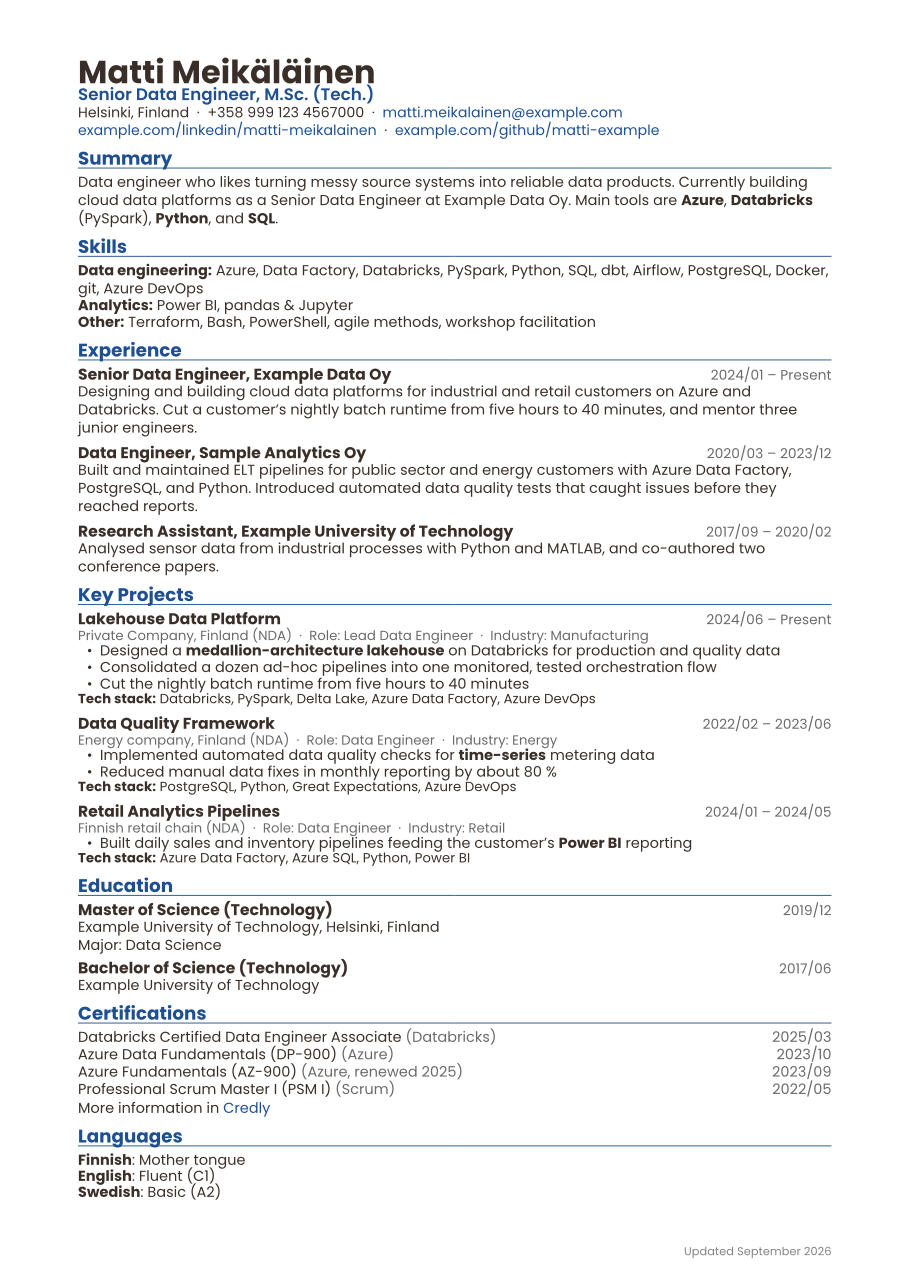
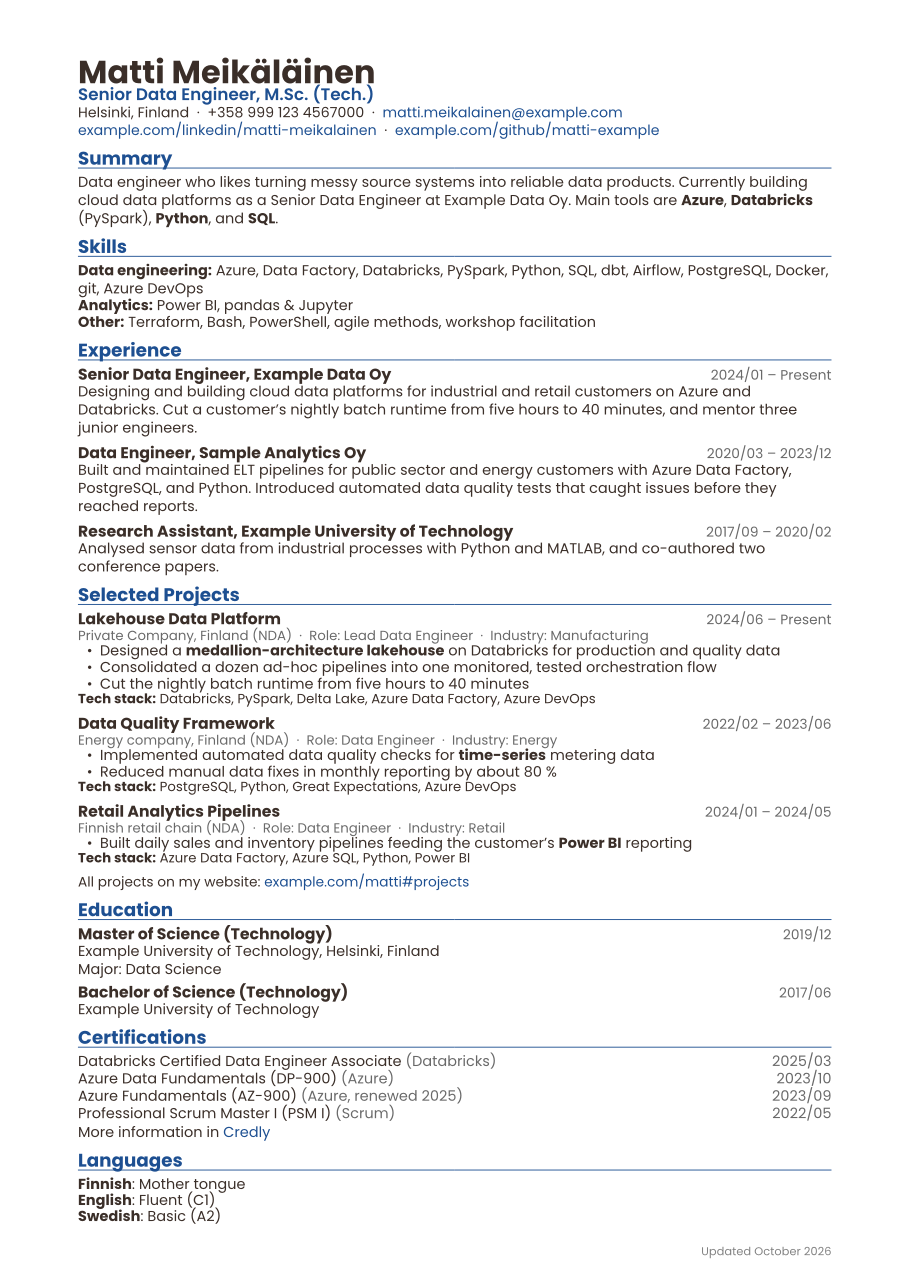
Add grouping entries, Selected Projects with link, PDF chart tuning and job-fit duplicate check

diff --git a/AGENTS.md b/AGENTS.md
@@ -55,7 +55,8 @@ python build.py list                             # profiles with descriptions
 - **Tags:** `tags: [...]` on items, used by profile filters. `id:` identifies items for `filters.<list>.ids`.
 - **Notes:** `notes: [...]` on an item or as a top-level key = facts the user has confirmed that are not CV text (too small, context, or negative, e.g. "no streaming experience"). Never rendered: `notes` is in `META_KEYS`, so the resolver drops it from every output. The job-fit skill reads them and writes the user's answers into them; when a fact is promoted into CV text, the note is removed in the same edit, so the same fact never lives in two places.
 - **Inline markdown** (`**bold**`, `*italic*`, `[text](url)`, `` `code` ``) works in text fields. For the PDF the build converts it to Typst markup and escapes special characters. Relative and anchor links (`#projects`, Liquid) become plain text in the PDF.
-- `experience`: `highlights` = bullets (website), `summary` = paragraph (PDF).
+- `experience`: `highlights` = bullets (website), `summary` = paragraph (PDF). `org` is optional. An item with a `positions` list is a grouping entry: the PDF renders each position as a sub-entry with its own title, org, period and `summary` (e.g. "Academia 2015–2020" with two roles below).
+- **Same background at two levels of detail:** the example data has `academia-summary` (grouping entry with `positions`, `channels: [pdf]`, tag `academia-summary`) and the detailed `university-ra` (tag `academia-detail`). Profiles pick one with `exclude_tags`: `full`, `one-page` and `projects` exclude `academia-detail`; `ats` excludes `academia-summary`.
 - `projects`: `title`, `client`, `role`, `industry`, `data`, `highlights` (strings, or `{text, sub: [...]}` for nested bullets), `stack`.
 - `skills.groups` = the skills list (`inline: true` → one comma-separated bullet). `skills.chart` = optional bubble chart, positioned by hand (`x`, `y` 0–100, `r` px of a 620 px chart, `cat` = category index).
 - Keys in `PLAIN_KEYS` (build.py) are never treated as markup; add a key there if it holds raw values such as colours or IDs.
@@ -70,10 +71,11 @@ python build.py list                             # profiles with descriptions
 ## PDF template and profiles
 
 - **`layout.mode`:** `sidebar` (default) = coloured sidebar column + main column. `single` = one full-width column on a white page (ATS-friendly); only `layout.main` is rendered, and sections switch style: accent-coloured headings with a thin rule, contact details on one or two lines under the name, skills as text lines, one certification per line.
-- `layout.sidebar` / `layout.main` = section order. Sections (the `sections` dictionary at the end of `cv.typ`): `photo, header, summary, contact, skills, skills_chart, experience, projects, education, languages, certifications, merits, trainings`. Any section works in either column (`side` handles colours).
+- `layout.sidebar` / `layout.main` = section order. Sections (the `sections` dictionary at the end of `cv.typ`): `photo, header, summary, contact, skills, skills_chart, experience, projects, projects_link, education, languages, certifications, merits, trainings`. Any section works in either column (`side` handles colours). `projects_link` = only a Projects heading and the link to the full list (`basics.web.projects_url`), for profiles that list no projects (`one-page`).
+- Project section heading: profiles that show only some projects (`full`, `ats`) use `labels: {en: {projects: Selected Projects}}` and `style.show_projects_link: true`; `projects` shows all of them with the plain "Projects" heading and no link.
 - Entries (experience, projects, education, trainings, awards) show the title on the left and the period right-aligned on the same line (`entry-head(title, when: ...)`).
 - `photo`: `basics.photo` image, or a circle with the initials if there is no photo.
-- `style` keys (defaults at the top of `cv.typ`): `accent, ink, font, font_size, heading_size` (15, single mode 12), `sidebar_width` (%), `photo_size` (cm), `justify` (default false; left-aligned text also avoids hyphenation), `chart_scale` (default 1.0), `show_references` (default false), `show_updated`, `show_page_numbers`, `header_links` (single mode: which `basics.links` labels to show under the name; default all).
+- `style` keys (defaults at the top of `cv.typ`): `accent, ink, font, font_size, heading_size` (15, single mode 12), `sidebar_width` (%), `photo_size` (cm), `justify` (default false; left-aligned text also avoids hyphenation), `chart_scale` (default 1.0), `chart_bubble_scale` (PDF-only bubble size factor, default 1.0) and `chart_height` (chart height / width, default 0.52) to tighten the PDF chart without changing the coordinates the website chart also uses, `show_references` (default false), `show_projects_link` (link to `basics.web.projects_url` after the projects, default false), `show_updated`, `show_page_numbers`, `header_links` (single mode: which `basics.links` labels to show under the name; default all).
 - `labels: {en: {about: Summary}, ...}` in a profile overrides `labels.yml` for that profile only.
 - `publish_as: name.pdf` copies the default-language PDF to `out/name.pdf`; `publish_as: {en: a.pdf, fi: b.pdf}` sets it per language.
 - Footer: "Updated <month year>" (build date) and page numbers when there is more than one page; both can be switched off in `style`.
@@ -84,6 +86,7 @@ python build.py list                             # profiles with descriptions
 When the user adds a job ad (`jobs/<slug>/ad.pdf|md|html|txt`) or asks how well they fit a position, follow `.claude/skills/job-fit/SKILL.md` (in Claude Code: `/job-fit jobs/<slug>`). In short:
 
 - Write `jobs/<slug>/fit.md`: every requirement of the ad with a status (✅ met, 🟡 partial, ❌ missing, ❔ not in CV) and evidence by item `id`, a realistic verdict, real gaps vs. things missing from the CV text only, missing ATS keywords, suggested wording (not applied), and questions.
+- Check for an existing `jobs/*/` folder of the same company and role before creating a new one (the same position is often posted in several places); update that one instead.
 - Never invent experience and never edit `data/cv.yml` for a job; suggest changes in `fit.md`.
 - A tailored CV is a profile next to the ad, `jobs/<slug>/profile.yml` (`include_internal: false`), with `filters` for selection and order and `overrides` for job-specific text. Build it with `python build.py pdf --profile jobs/<slug>/profile.yml --png` → `out/cv_<slug>_<lang>.pdf`.
 - Profile `overrides`: mappings are merged deeply and other values replaced, so `basics: {headline: {en: ...}}` changes only the English headline and `summary_pdf: {en: ...}` keeps the other languages; for a top-level list, `{item_id: {field: value}}` patches those items. Override the exact key the data uses (`summary_pdf` if it exists). Overrides are applied to the raw data before resolving, so language mappings work as usual.

diff --git a/README.md b/README.md
@@ -45,7 +45,7 @@ jobs/acme-senior-data-engineer/
   profile.yml     ← agent, on request: a CV profile tailored to this job
 ```
 
-1. Save the ad as `jobs/<slug>/ad.pdf` (or `.md`, `.html`, `.txt`), or just paste it into the chat.
+1. Save the ad as `jobs/<slug>/ad.pdf` (or `.md`, `.html`, `.txt`), or just paste it into the chat. If the same position is already in `jobs/` (e.g. from a job portal and from the employer's own site), the agent updates that folder instead of creating a second one.
 2. In [Claude Code](https://claude.com/claude-code) run `/job-fit jobs/<slug>`. Other coding agents: "analyse jobs/<slug> as described in AGENTS.md". The instructions live in `.claude/skills/job-fit/SKILL.md`, so no API key or extra dependency is needed.
 3. Read `fit.md`. Every requirement gets ✅ met / 🟡 partial / ❌ missing / ❔ not in CV, with evidence pointing to items in `data/cv.yml`. The agent never invents experience and does not edit your data; wording changes are suggestions.
 4. Want a tailored CV? Ask for it. The agent writes `jobs/<slug>/profile.yml` that selects and orders your projects and overrides texts such as the summary for this job (`overrides`, see AGENTS.md), then `python build.py pdf --profile jobs/<slug>/profile.yml --png` builds `out/cv_<slug>_<lang>.pdf`.
@@ -85,6 +85,8 @@ Use **"Use this template"** on GitHub (a fresh repository without this history),
 
 - Replace Matti with yourself. The comments at the top of the file and [AGENTS.md](AGENTS.md) explain the conventions: languages (`{en: ..., fi: ...}`), channel variants (`summary_web` / `summary_pdf`), channel-only items (`channels: [pdf]`), internal data (`client_internal`, `internal: true`), tags and dates.
 - Keep the `id`s stable; profiles select items by `id` and `tags`.
+- **Grouping entries:** an experience item with a `positions` list renders in the PDF as one heading (e.g. "Academia 2015–2020") with the roles as sub-entries; `org` is optional. The example data has the same background twice, condensed (`academia-summary`) and detailed (`academia-detail`), and each profile picks one with `exclude_tags`. Use the same pattern for any part of your history you want to show at different lengths.
+- `basics.web.projects_url`: a page with all your projects (e.g. your website's projects section). Profiles that show only a selection can link to it.
 - More data files: every `data/*.yml` is merged into one namespace (top-level keys must be unique), e.g. `data/publications.yml`.
 
 ### 3. Photo
@@ -111,11 +113,12 @@ Use **"Use this template"** on GitHub (a fresh repository without this history),
 - `skills.chart` draws the same bubble chart on the website (Chart.js) and in the PDF (Typst). It is a personal touch, not a necessity.
 - **Bubbles are positioned by hand**: `x`, `y` on a 0–100 grid, `r` = radius in px of a 620 px wide chart. Nothing prevents overlaps, so expect a few rounds of edit → `--png` → look.
 - Bubble sizes read as skill levels, so choose them deliberately, or leave the chart out: delete `skills.chart` and remove `skills_chart` from the profiles. The website template skips the chart when it is missing.
-- `style.chart_scale` (e.g. `0.8`) shrinks it in a profile.
+- `style.chart_scale` (e.g. `0.8`) shrinks it in a profile. `style.chart_bubble_scale` (e.g. `1.1`) and `style.chart_height` (height / width, default `0.52`) tighten the PDF chart without touching the coordinates the website chart also uses.
 
 ### 7. Profiles (`profiles/*.yml`)
 
-- Included: `full` (sidebar, key projects, chart), `one-page`, `ats` (one column, conventional headings), `projects` (all public projects), `internal` (real client names; do not publish).
+- Included: `full` (sidebar, selected projects, chart, condensed academia), `one-page` (condensed academia and a link to all projects), `ats` (one column, conventional headings, detailed academia), `projects` (all public projects), `internal` (real client names; do not publish).
+- Profiles that show only some projects (`full`, `ats`) title them "Selected Projects" (a `labels` override) and add a link to the full list with `style.show_projects_link: true`. The `projects_link` section shows just that heading and link, for a profile without projects (`one-page`).
 - A profile sets `layout` (`mode: sidebar | single`, section order), `filters` (`ids`, `include_tags`, `exclude_tags`, `max`), `labels` overrides (e.g. "Summary" instead of "About Me"), `style`, and optionally `publish_as` (see below). Add or delete profiles freely; `build.py all` builds whatever is there.
 - `publish_as: resume.pdf` also writes the default-language PDF as `out/resume.pdf`, i.e. with the file name your website links to. Then publishing is always "copy the same files".
 

diff --git a/.claude/skills/job-fit/SKILL.md b/.claude/skills/job-fit/SKILL.md
@@ -17,6 +17,7 @@ jobs/<slug>/            slug = company-role, lowercase with hyphens, e.g. exampl
   profile.yml           tailored CV profile (only when the user asks for a tailored CV)
 ```
 
+- **Check for duplicates first.** Before creating a new folder, look through the existing `jobs/*/ad.*` files for the same company and role. The same position often appears in several places, e.g. a job portal and the employer's own application form. If you find a match, do not create a second folder: add the new source and any wording differences to the existing `ad.md`, update that `fit.md` (a re-run, see Rules), and tell the user which folder you used.
 - If the user pastes the ad text into the chat, save it as `jobs/<slug>/ad.md` first, with the source (URL or "pasted") and today's date at the top.
 - If the user gives only a URL, fetch it if you can and save the readable text as `ad.md`; if fetching fails, ask the user to paste the text or save the page.
 - If the argument is a file instead of a folder, use its folder; if the file is not in `jobs/`, create `jobs/<slug>/` and copy it there.
